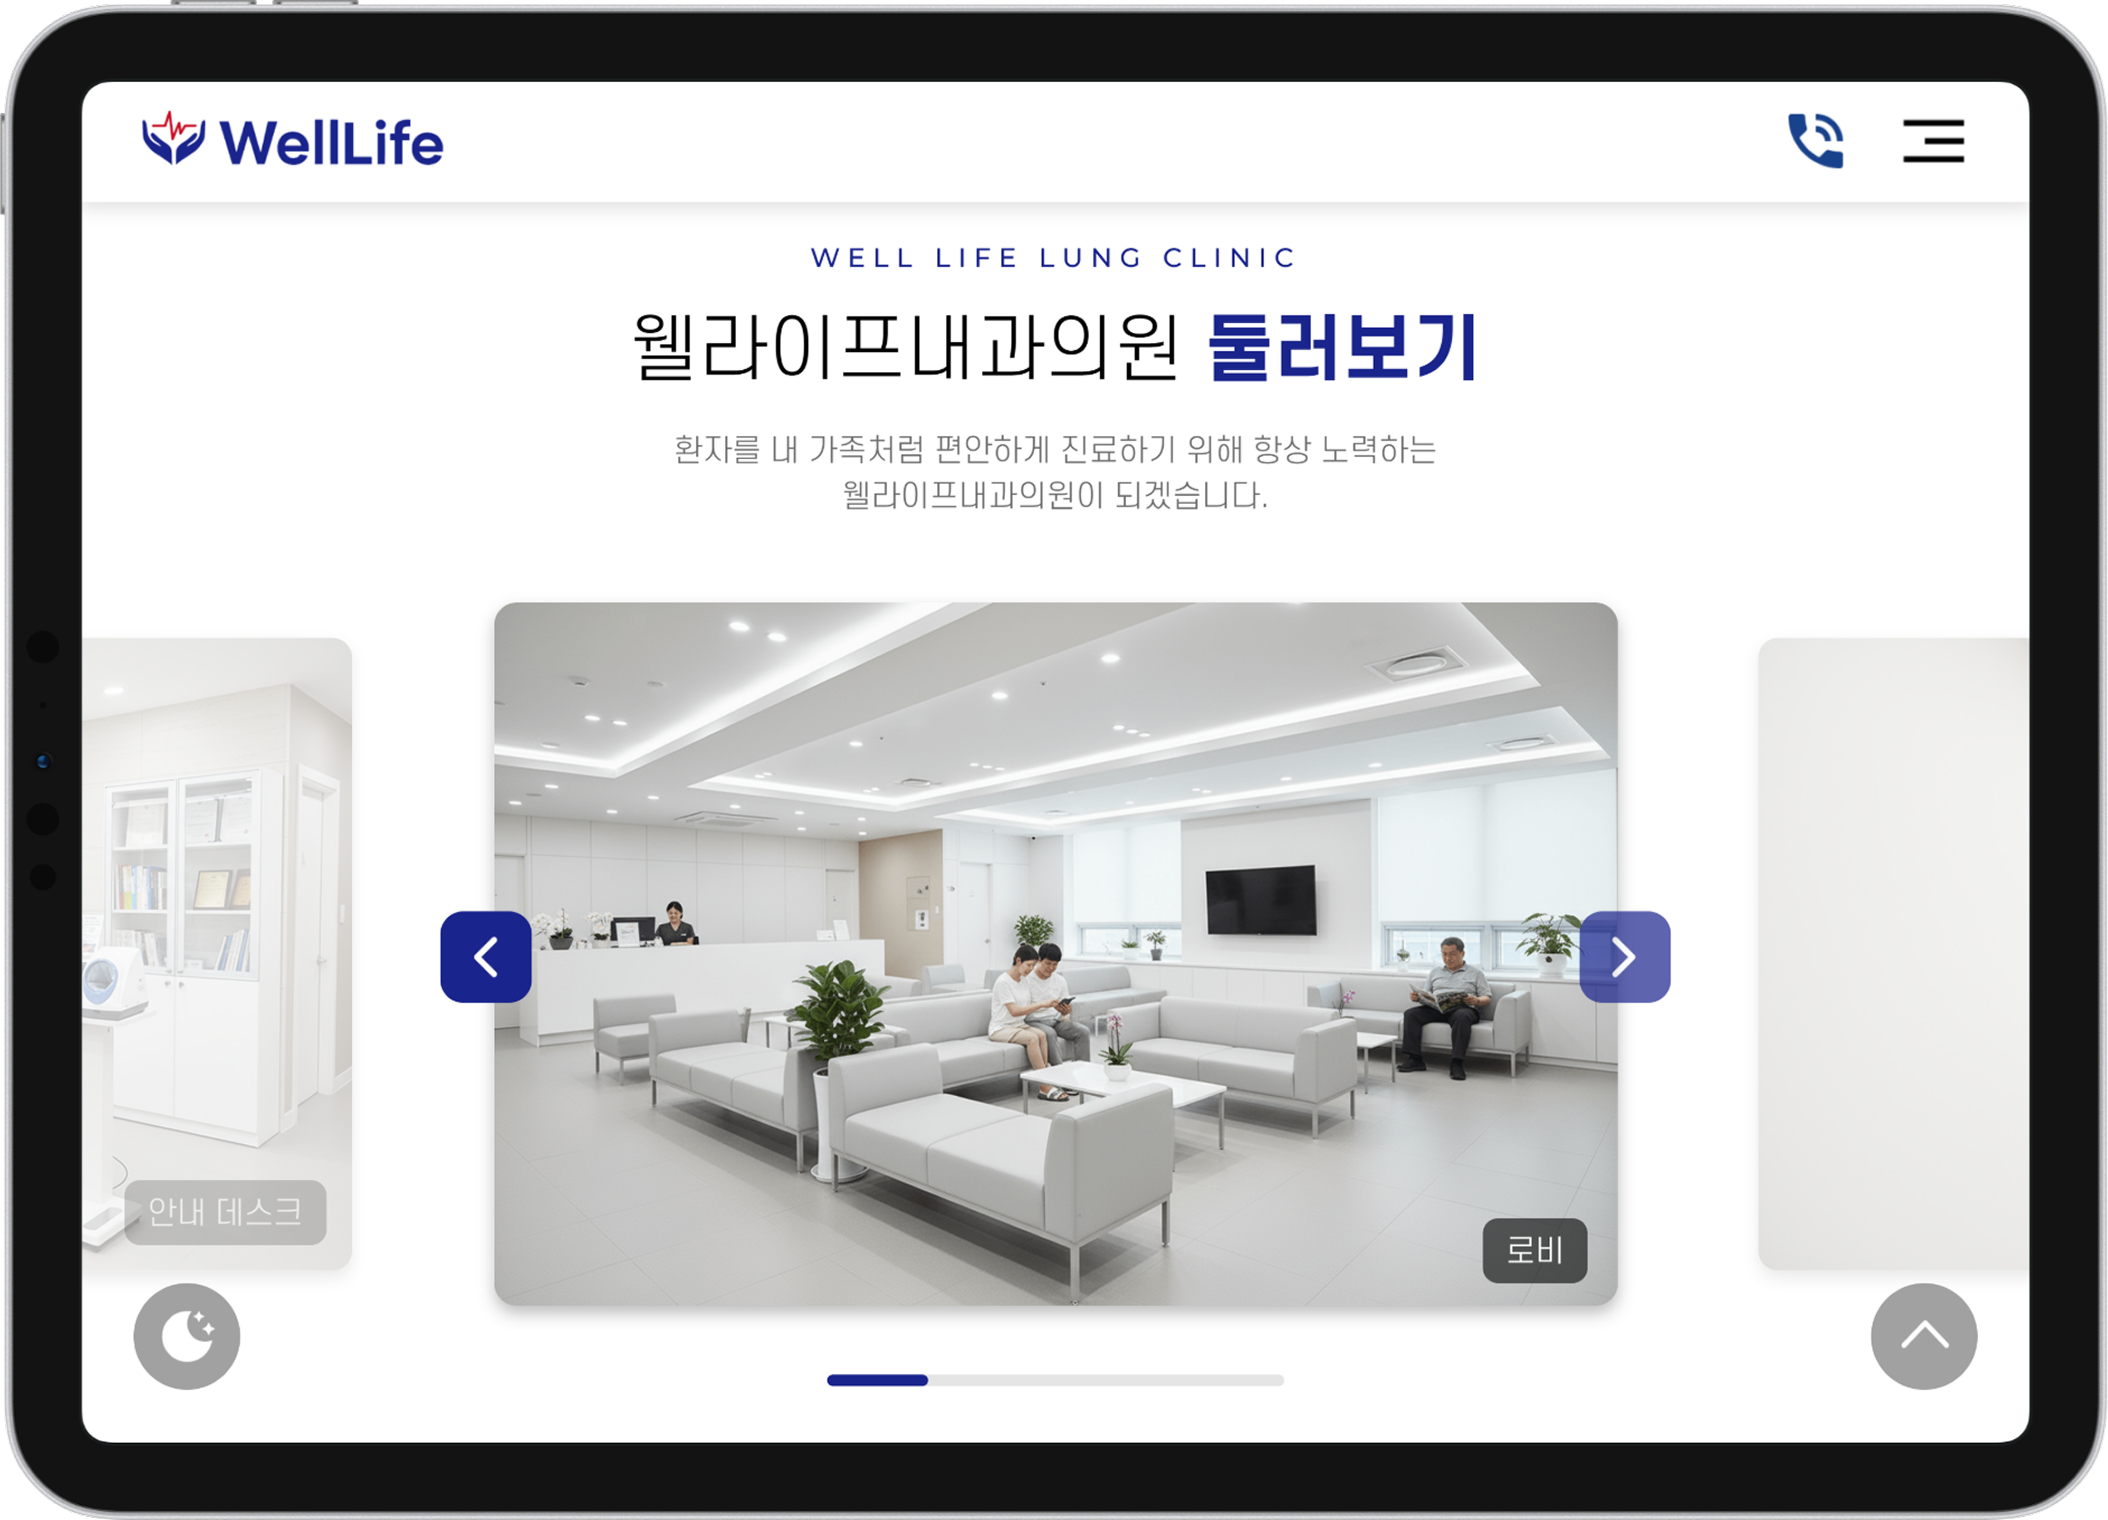
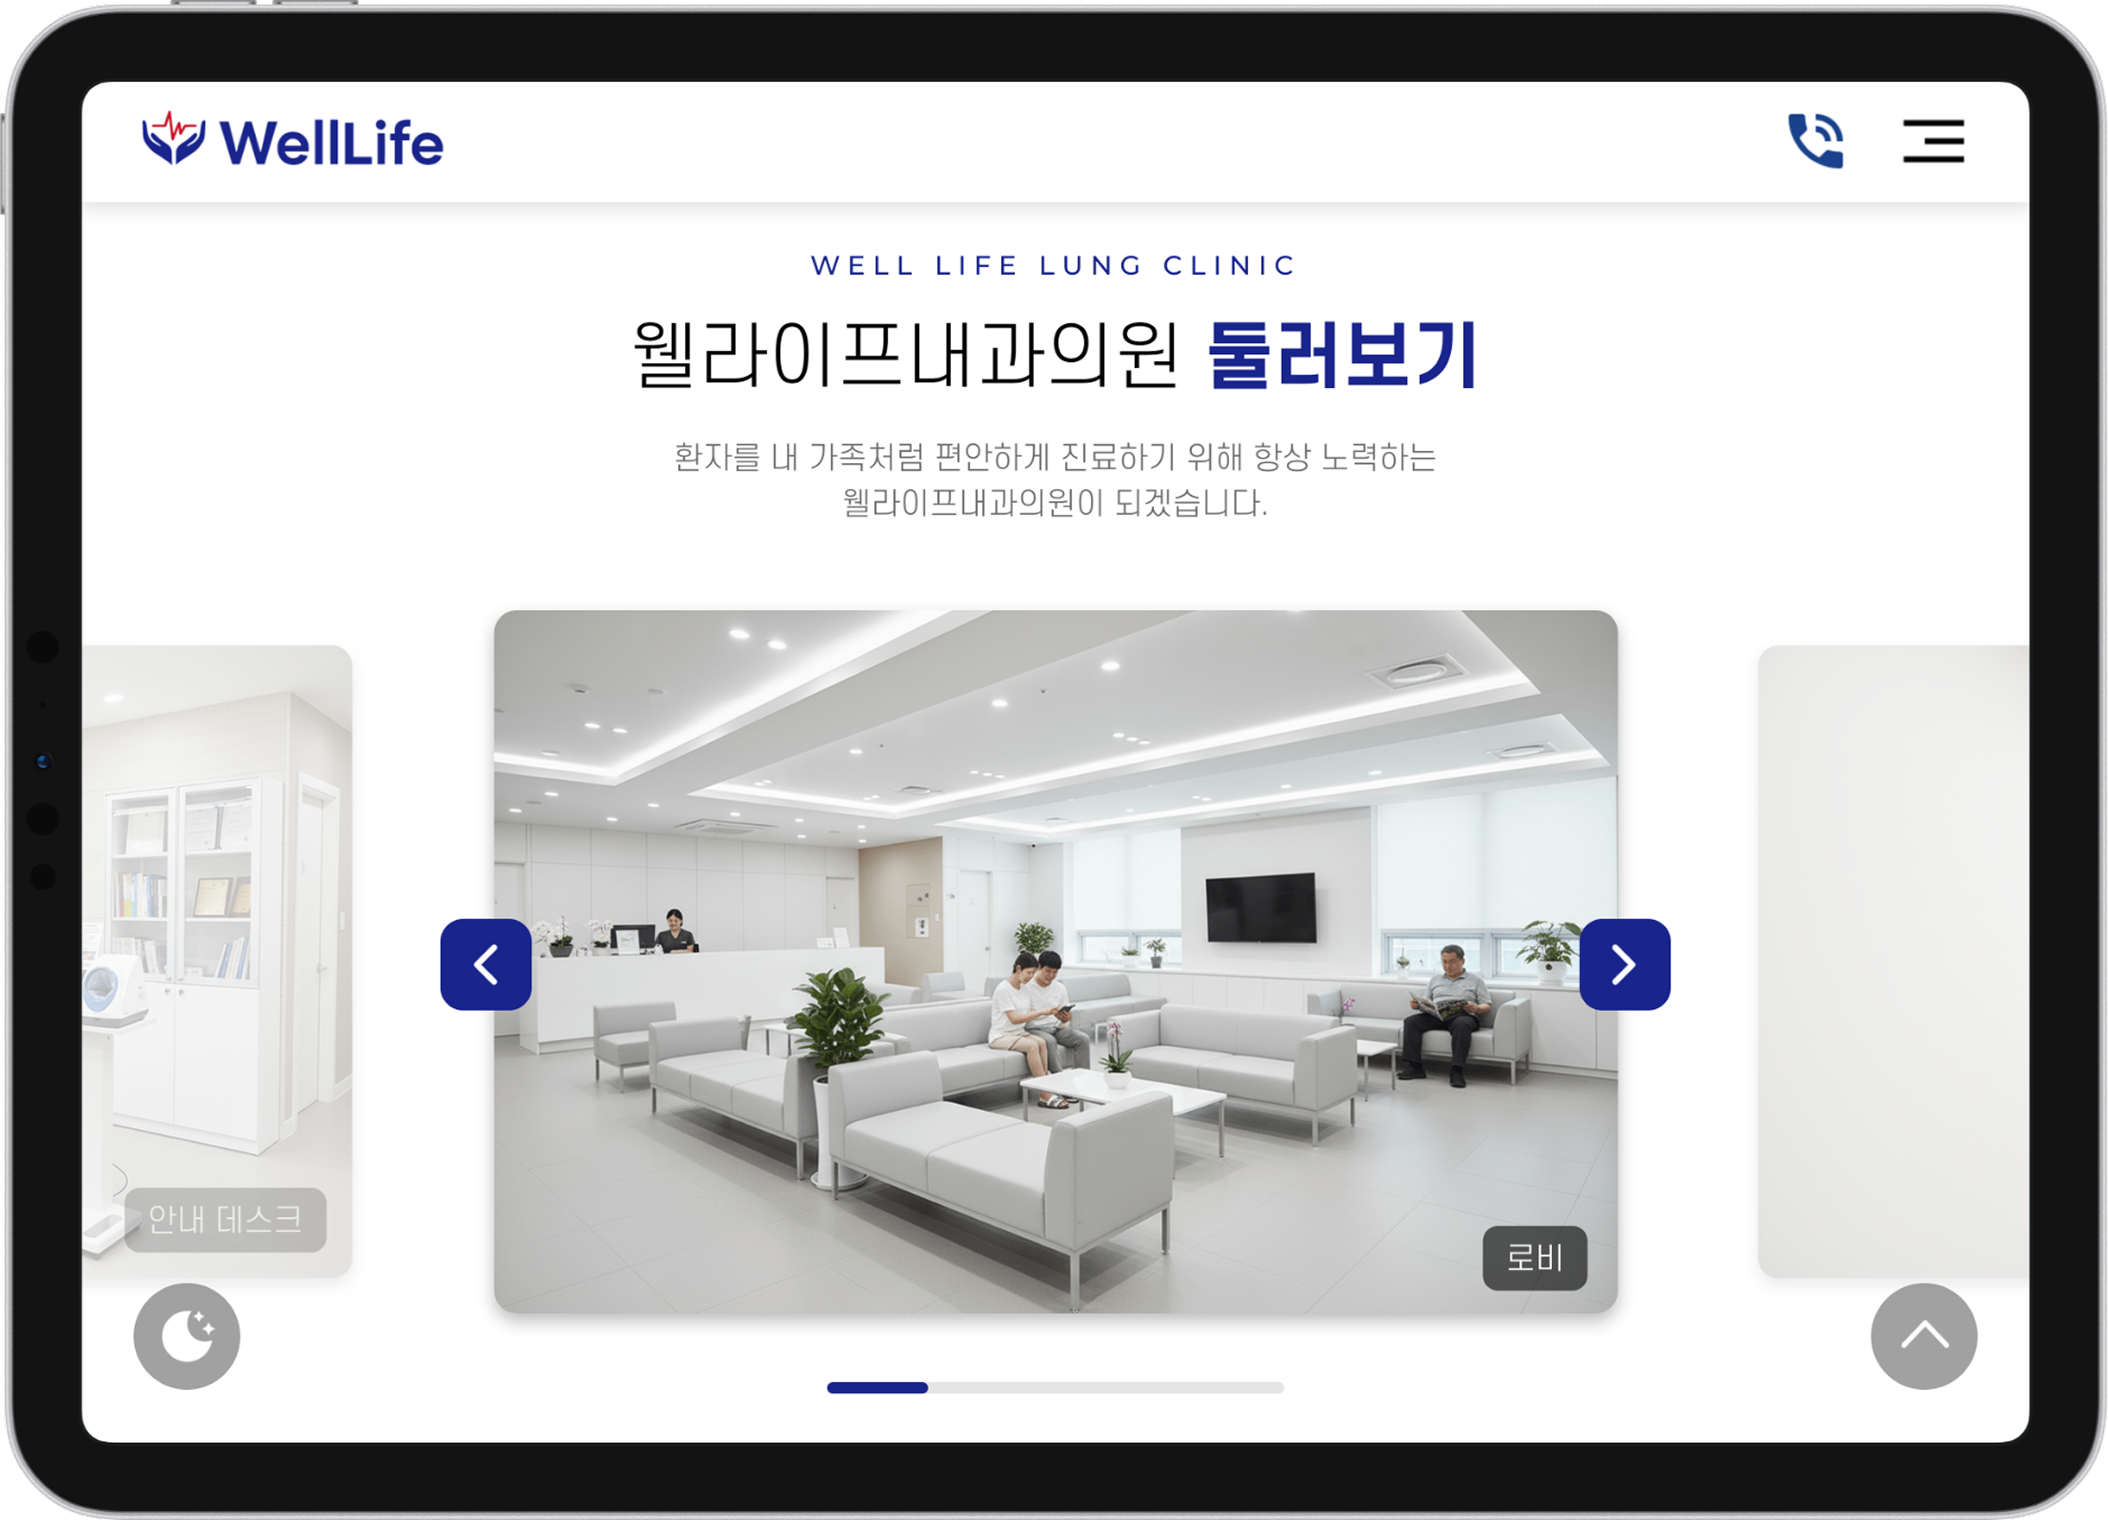
chore: 웰라이프 프로젝트 UI 미세 수정

diff --git a/portfolio/well-life/css/pages/appointment/appointment.css b/portfolio/well-life/css/pages/appointment/appointment.css
@@ -77,12 +77,13 @@
   display: flex;
   justify-content: center;
   align-items: center;
+  gap: var(--spacing-4);
   margin-bottom: var(--spacing-24);
 }
 .appointment-form__item-calendar-title .prev-btn,
 .appointment-form__item-calendar-title .next-btn {
-  width: calc(48px / 2);
-  height: calc(48px / 2);
+  width: 30px;
+  height: 30px;
   background-image: url(../../../images/appointment/appointment-next-btn.png);
   background-size: 100% 100%;
 }
@@ -140,6 +141,7 @@
   height: 32px;
   border-radius: 50%;
   color: var(--color-black);
+  line-height: 1em;
 }
 .appointment-form__item-calendar-day-name {
   font-family: var(--font-KR-medium);
@@ -153,6 +155,7 @@
 .appointment-form__item-calendar-date {
   font-family: var(--font-number-light);
   transition: background-color 0.2s, color 0.2s;
+  font-weight: 600;
 }
 /* 일요일은 선택 불가(병원 휴일) */
 .appointment-form__item-calendar-date:nth-child(7n + 1) {
@@ -168,6 +171,7 @@
 .appointment-form__item-calendar-date--current {
   color: var(--color-white) !important;
   font-family: var(--font-KR-medium);
+  font-weight: inherit;
 }
 .appointment-form__item-calendar-date:hover {
   opacity: 1;

diff --git a/index.html b/index.html
@@ -752,7 +752,7 @@
                   <h4 class="web-content__subtitle project-subtitle">확장성을 고려한 <span class="font-en">UI</span> 시스템 설계 및 테마 구축</h4>
                   <p class="web-content__text project-desc">
                     <b class="font-en">Figma Design Token</b>과 <b class="font-en">CSS 변수</b>를 연동한
-                    <b class="font-kr">테마 시스템</b>을 구축하여 다크모드/라이트모드 전환을 구현하고,
+                    <b class="font-kr">디자인 시스템</b>을 구축하여 다크모드/라이트모드 전환을 구현하고,
                     디자인-개발 간 일관성을 확보했습니다.
                     <b class="font-en">Semantic Mark-up</b> 기반의 <b class="font-kr">공통 컴포넌트</b>를 설계하여
                     <b class="font-en">Lighthouse</b> <b class="font-kr">접근성 100점</b>을 달성했으며,

diff --git a/portfolio/well-life/css/pages/appointment/appointment-responsive.css b/portfolio/well-life/css/pages/appointment/appointment-responsive.css
@@ -58,6 +58,11 @@
   .appointment-form__item-calendar-title {
     margin-bottom: var(--spacing-16);
   }
+  .appointment-form__item-calendar-title .prev-btn,
+  .appointment-form__item-calendar-title .next-btn {
+    width: 28px;
+    height: 28px;
+  }
 
   /* appointment-form__item-time-box - 시간 선택 */
   .appointment-form__item-time-box {

diff --git a/portfolio/well-life/css/common/common-responsive/common-tablet.css b/portfolio/well-life/css/common/common-responsive/common-tablet.css
@@ -9,7 +9,7 @@
   }
   
   main {
-    padding-top: var(--spacing-64);
+    padding-top: var(--spacing-68);
   }
   /* ---------- END - LAYOUT ---------- */
 
@@ -41,7 +41,7 @@
     padding: 0 var(--section-padding-h-tablet);
   }
   .header-inner {
-    height: 64px;
+    height: 68px;
   }
 
   /* header-logo */

diff --git a/portfolio/well-life/css/common/variables.css b/portfolio/well-life/css/common/variables.css
@@ -56,6 +56,7 @@
   --spacing-56: 56px;
   --spacing-60: 60px;
   --spacing-64: 64px;
+  --spacing-68: 68px;
 
 
   /* ############### PADDING ############### */
